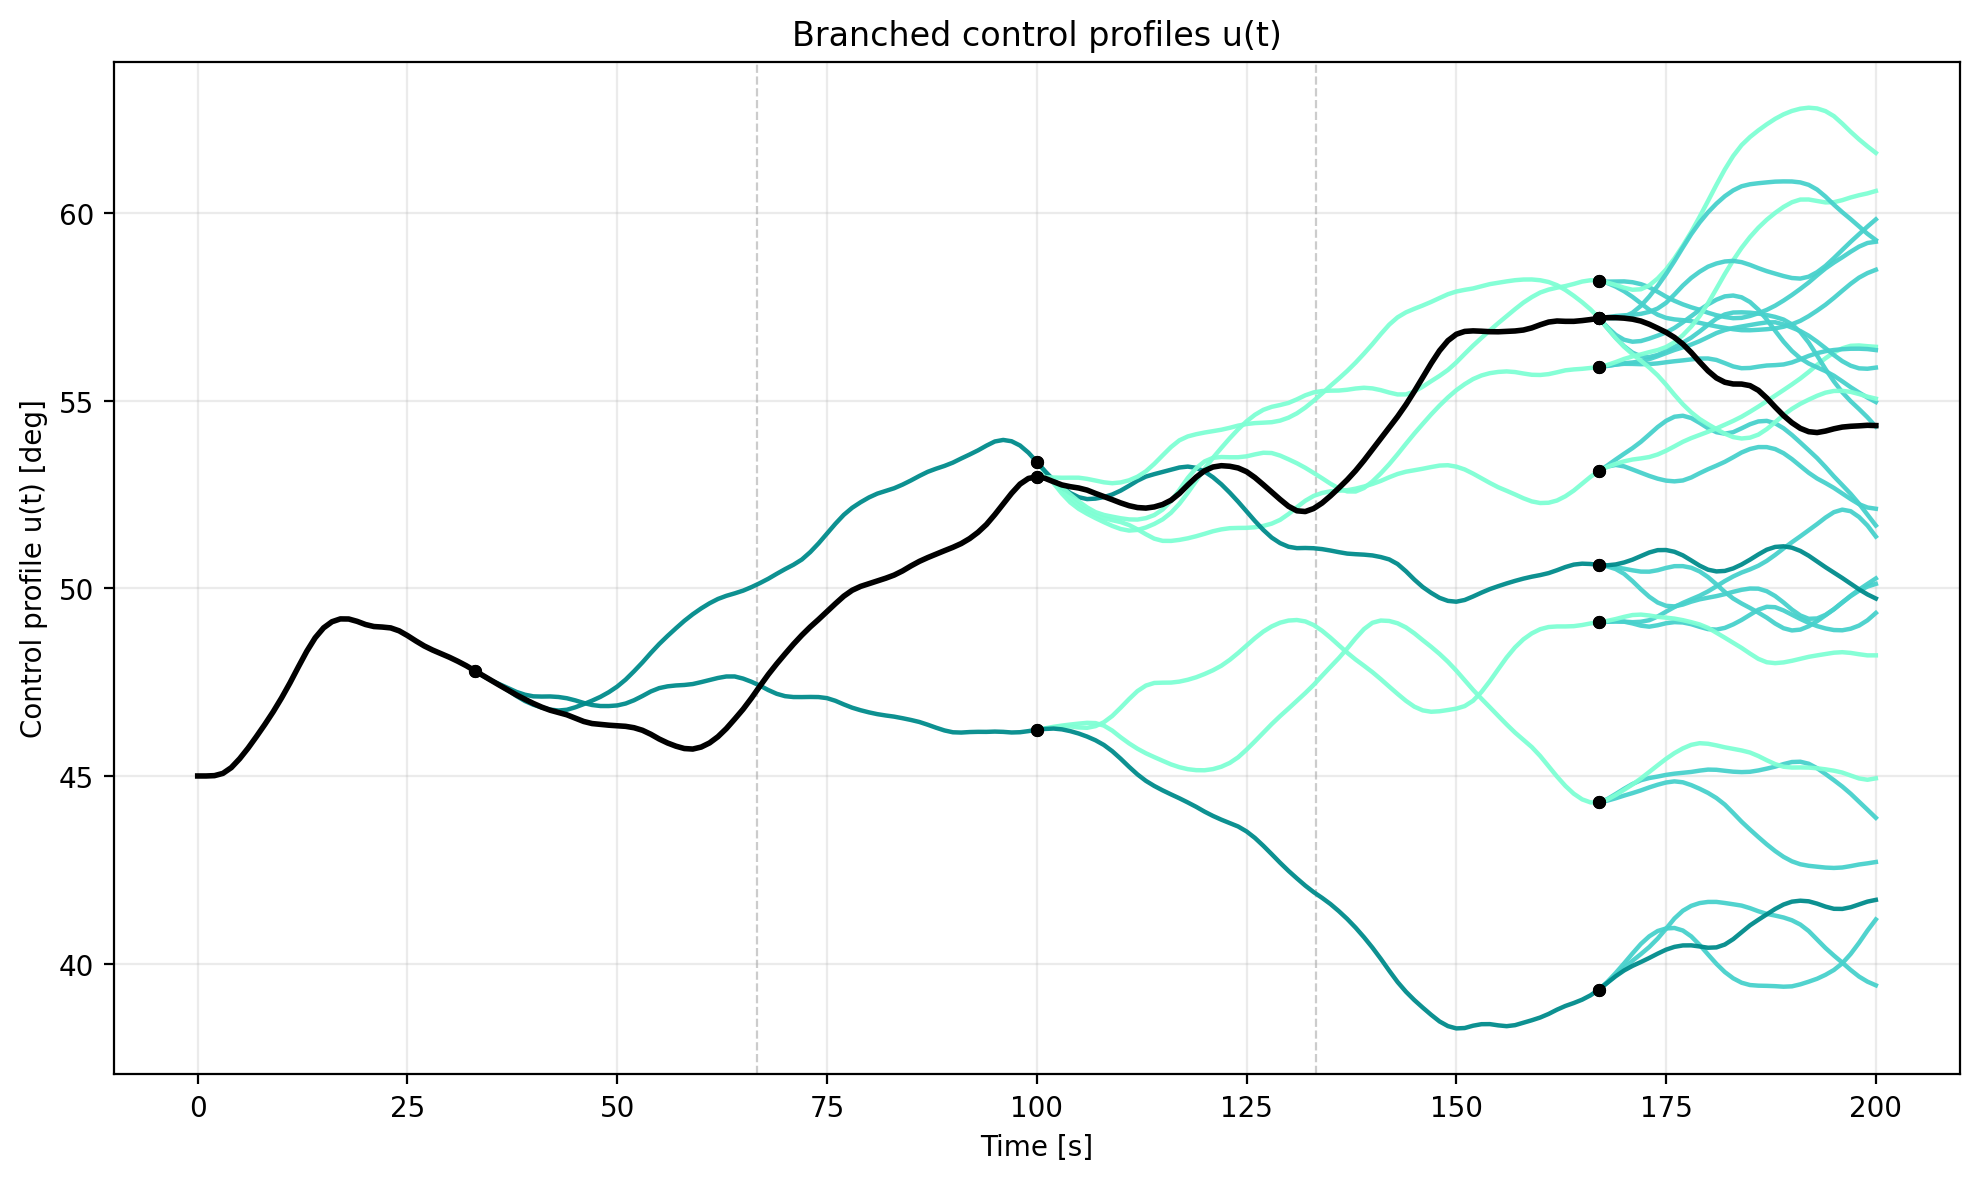
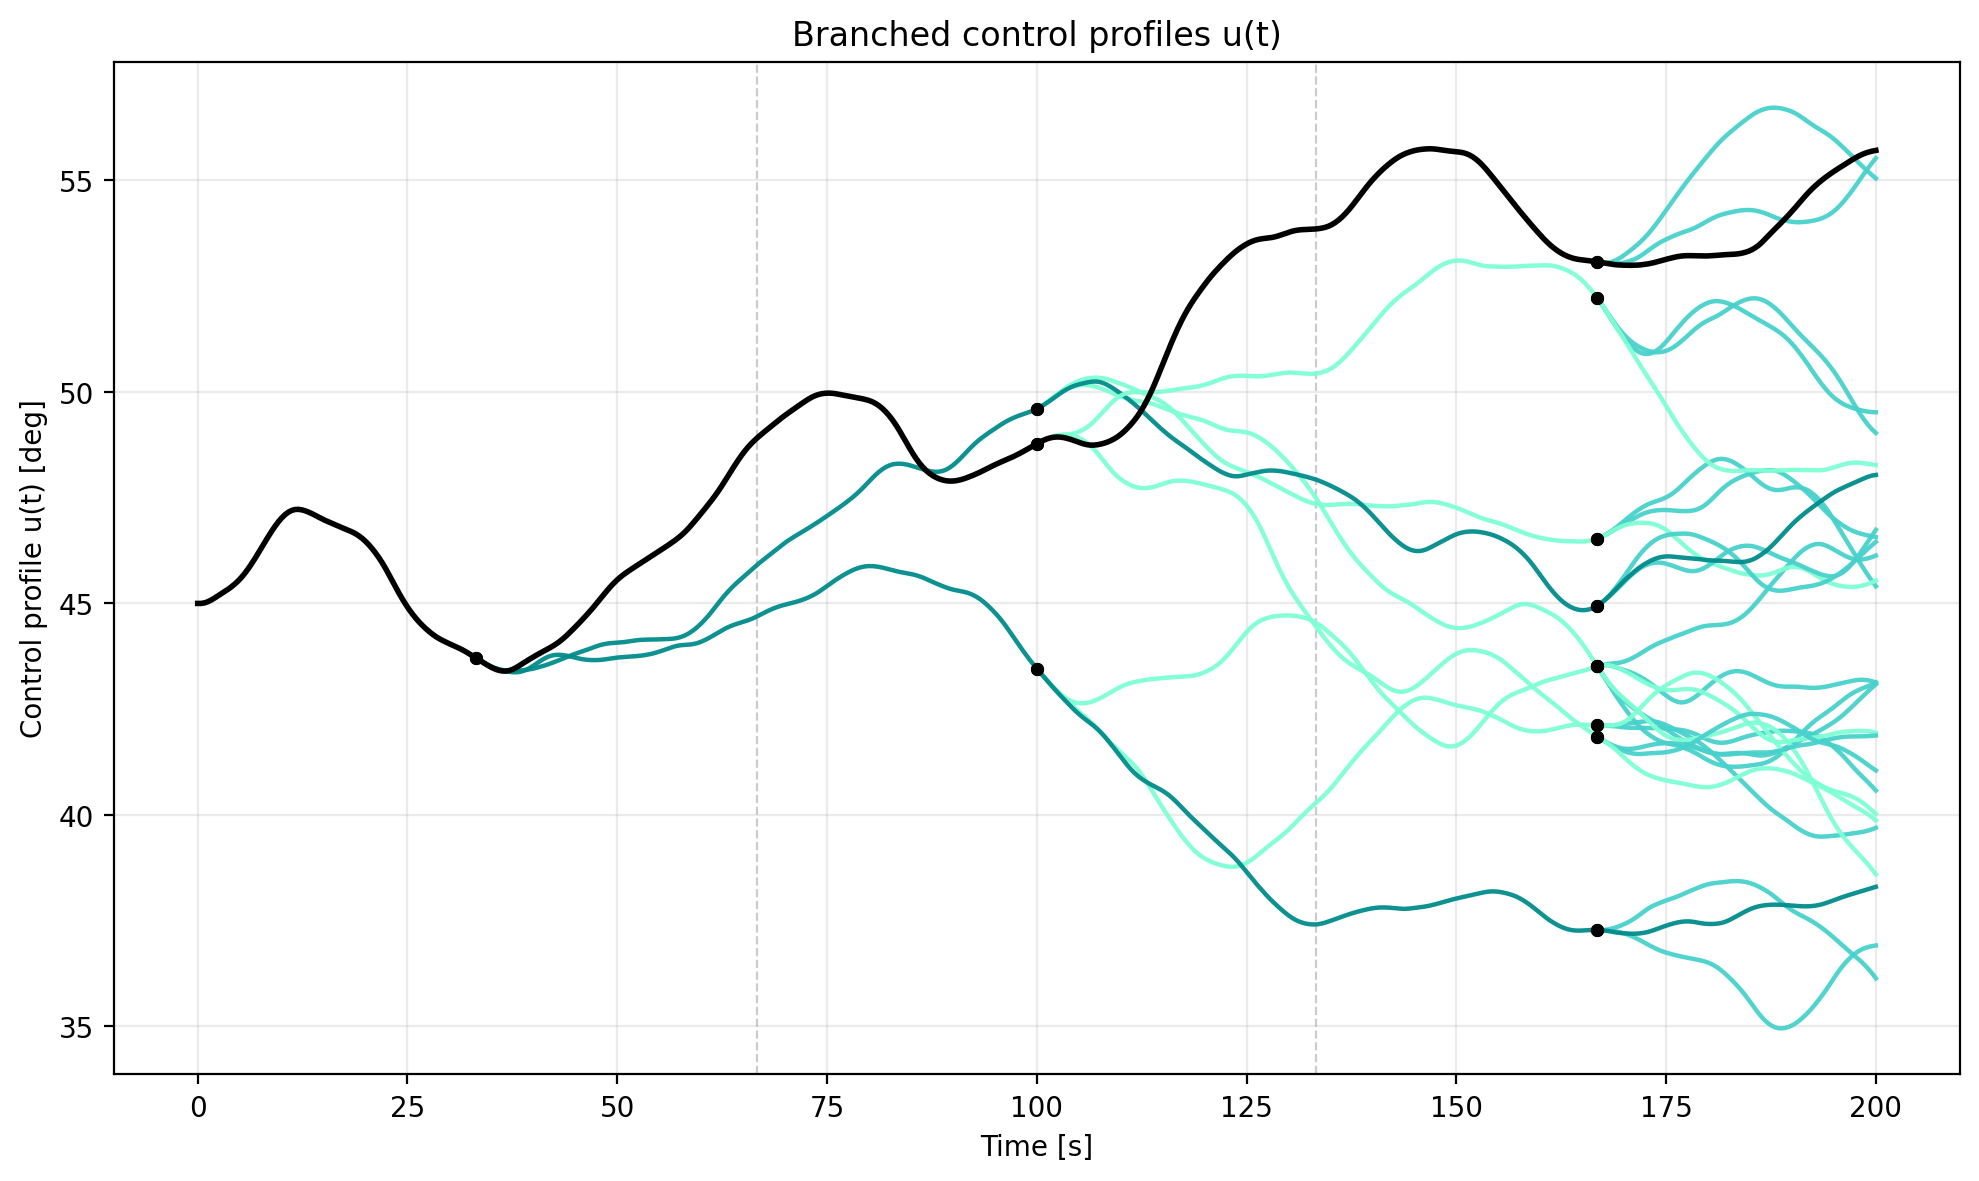
optimized branching video generation

diff --git a/scripts/generate_branched_control_profiles.py b/scripts/generate_branched_control_profiles.py
@@ -472,19 +472,19 @@ def main() -> None:
     parser.add_argument(
         "--video_fps",
         type=int,
-        default=12,
+        default=25,
         help="Frames per second for video output.",
     )
     parser.add_argument(
         "--video_progression_frames",
         type=int,
-        default=18,
+        default=100,
         help="Number of progressive drawing frames allocated to each interval.",
     )
     parser.add_argument(
         "--video_interval_edge_frames",
         type=int,
-        default=8,
+        default=25,
         help="Number of frames used to progressively draw interval-bound edges along y.",
     )
     parser.add_argument(
